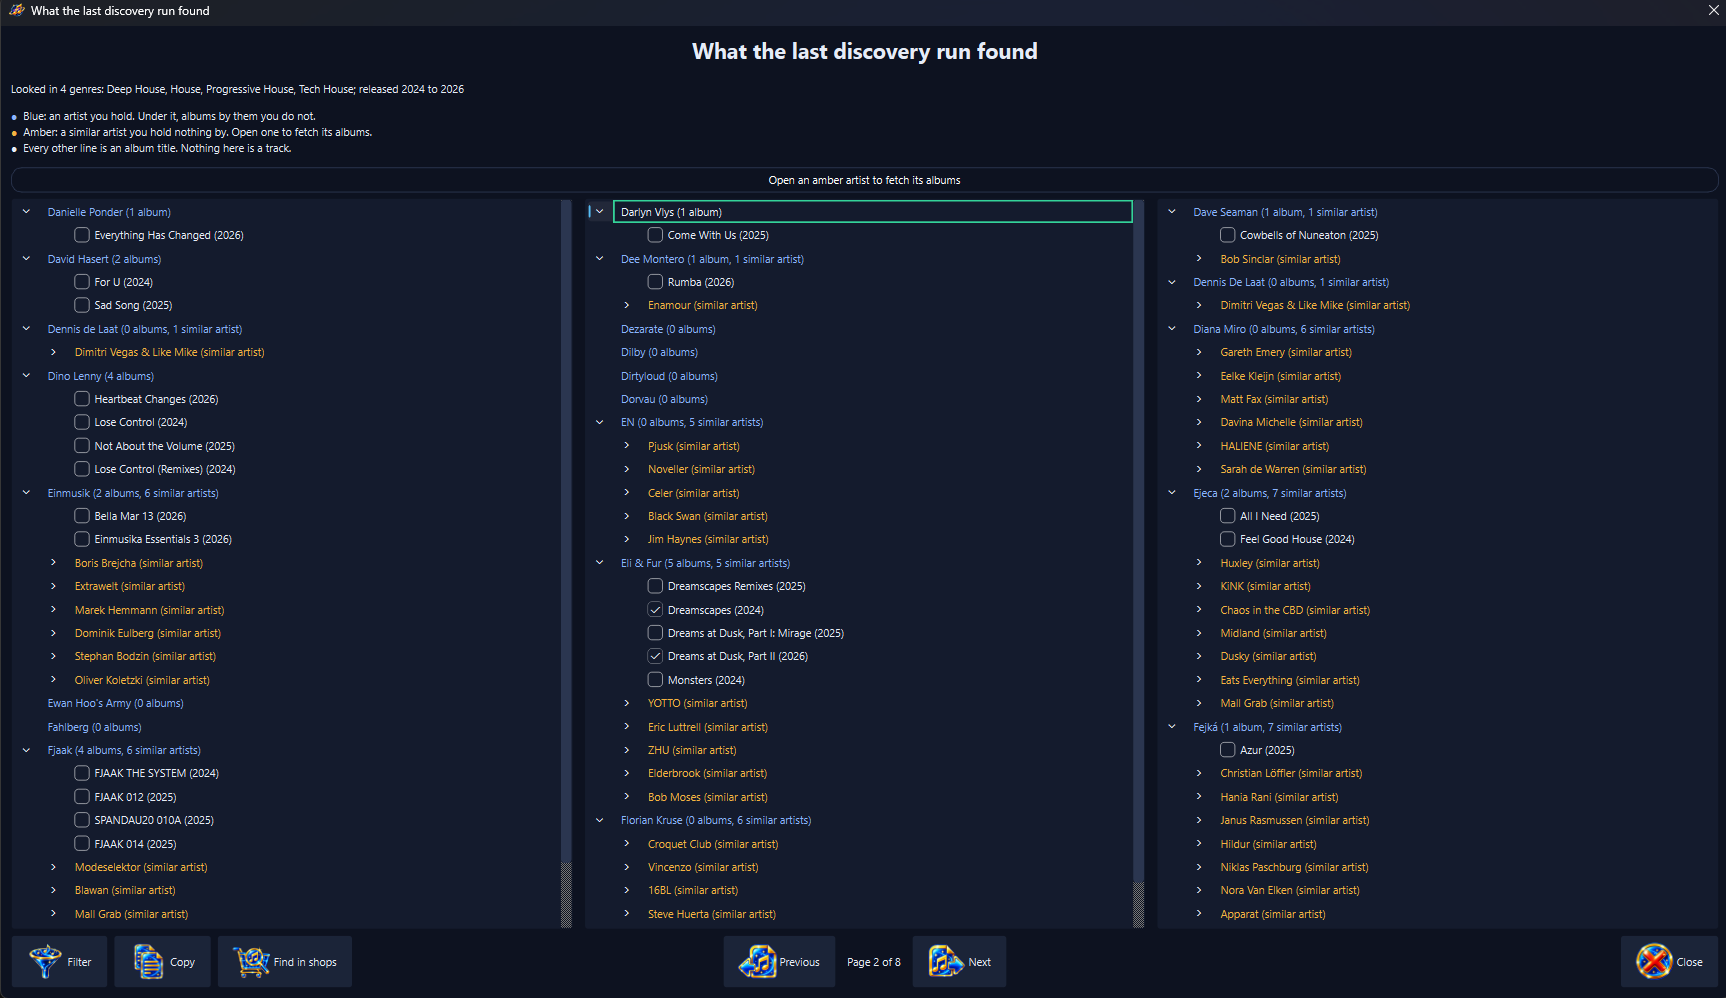
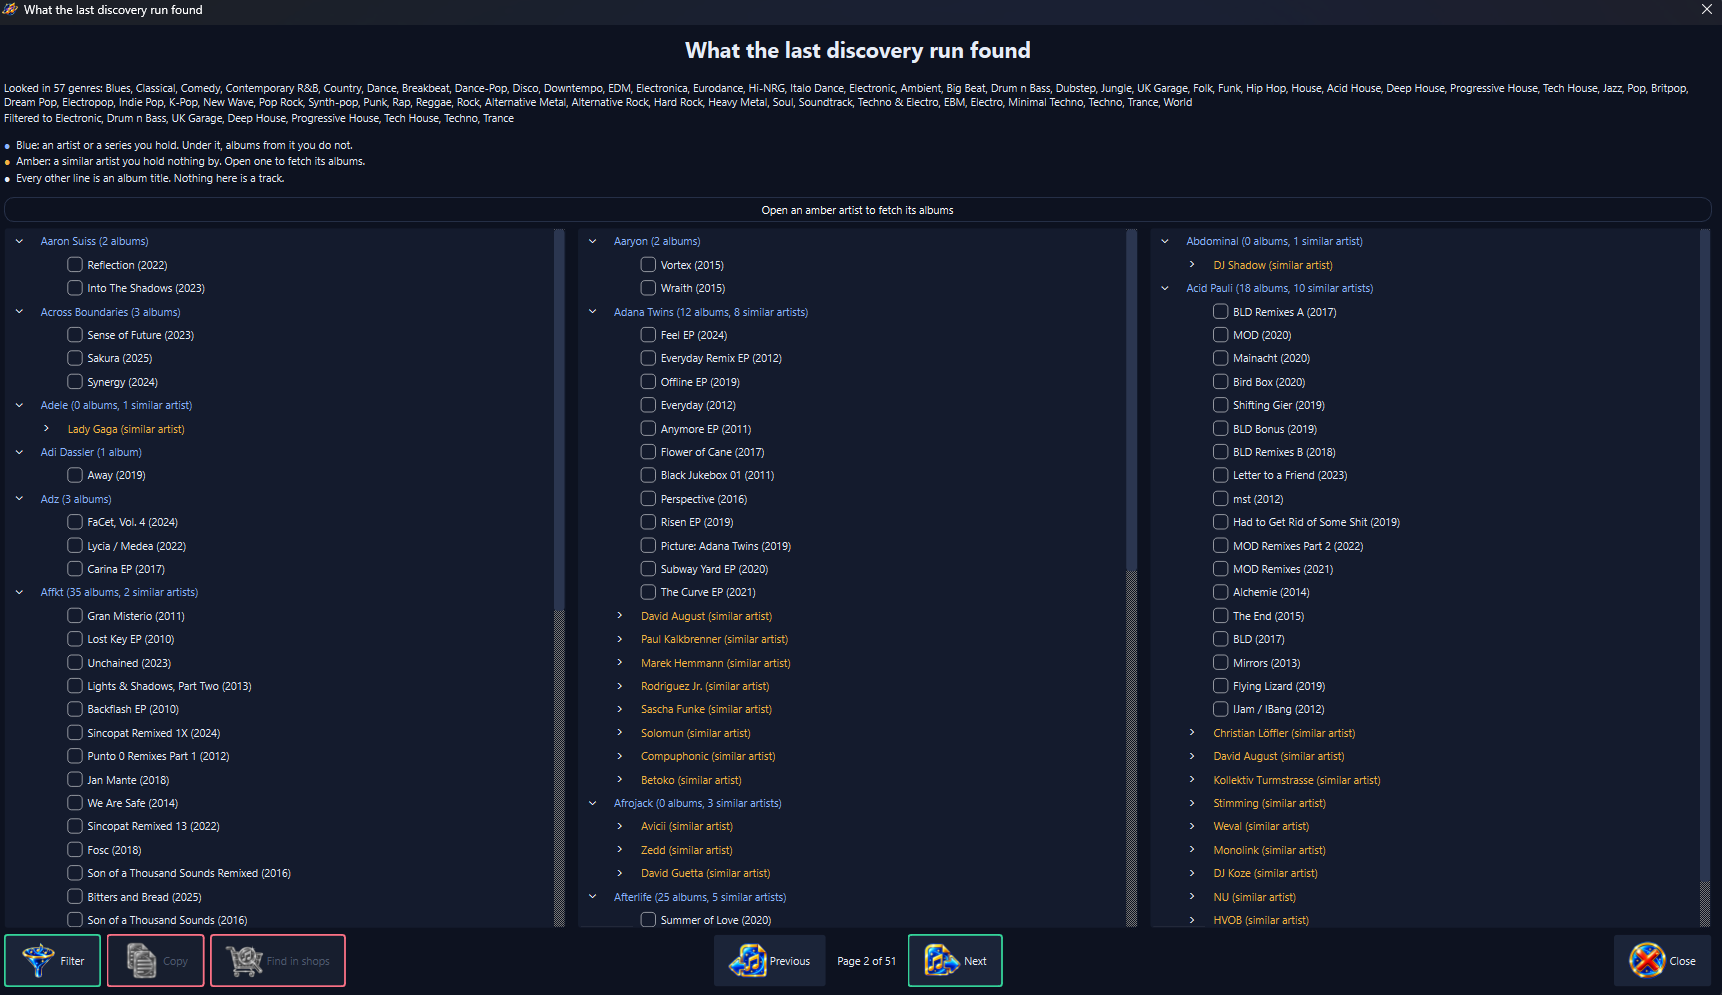
Mirror the site from Stellody@e28dd8b

diff --git a/public/features.html b/public/features.html
@@ -76,16 +76,19 @@
     else sounds like them.
   </p>
   <div class="shot" style="margin-top:2.5rem;">
-    <img src="screenshots/discovered.png" width="1726" height="998" alt="The What the last discovery run found window, opened across a wide screen. A line at the top says the search looked in 4 genres (Deep House, House, Progressive House and Tech House) released 2024 to 2026. Under it a key names the three kinds of row: an artist you hold, drawn in blue, with albums by them you do not underneath; a similar artist you hold nothing by, drawn in amber, which fetches its albums when opened; every other line, which is an album title. The key states outright that nothing in the list is a track. The answer is dealt into three columns of artists, Dino Lenny with 4 albums and Eli &amp; Fur with 5 albums and 5 similar artists among them. Every album has a tick box with the year it first came out beside its title: Dreamscapes (2024) and Dreams at Dusk, Part II (2026) are both ticked. Darlyn Vlys is the row the keyboard is on, ringed in green. One row runs under the columns: Filter, Copy and Find in shops at the left, then Previous and Next with the words Page 2 of 8 between them, then Close at the right.">
+    <img src="screenshots/discovered.png" width="1722" height="995" alt="The What the last discovery run found window, opened across a wide screen. A line at the top says the search looked in 57 genres and lists them; the next says the answer is filtered to Electronic, Drum n Bass, UK Garage, Deep House, Progressive House, Tech House, Techno and Trance, with nothing held back. Under it a key names the three kinds of row: an artist or a series you hold, drawn in blue, with albums from it you do not hold underneath; a similar artist you hold nothing by, drawn in amber, which fetches its albums when opened; every other line, which is an album title. A strip reads Open an amber artist to fetch its albums. The answer is dealt into three columns, among them Aaron Suiss with 2 albums, Adana Twins with 12 albums and 8 similar artists listed in amber beneath them; Acid Pauli has 18 albums and 10 similar artists. Every album has a tick box with the year it first came out beside its title. Nothing is ticked, so Copy and Find in shops are outlined in red and shut off. One row runs under the columns: Filter, Copy and Find in shops at the left, then Previous and Next with the words Page 2 of 51 between them, Next ringed in green, then Close at the right.">
   </div>
-  <p class="shot-caption">What the search found, turned a page at a time. Blue is an artist you hold; amber is one you do not. Every line says which it is in words. Each album carries the year it first came out.</p>
+  <p class="shot-caption">What the search found, turned a page at a time. Blue is an artist or a series you hold; amber is an artist you do not. Every line says which it is in words. Each album carries the year it first came out.</p>
 
   <div class="features-grid" style="margin-top:2.5rem;">
     <div class="feat">
       <h3>You choose what it looks at</h3>
       <p>The genres you tick decide which of your artists are named, so what goes out is a subset you
-      chose rather than an inventory of everything you own. What goes out is those artist names, the
-      identifiers the catalogue gives back for them and for the similar artists it suggests, the fixed
+      chose rather than an inventory of everything you own. What goes out is those artist names; up
+      to three album or track titles you hold under a name several artists share, to tell which one
+      you mean; while compilations are included, the titles of those compilations and the series
+      names read from them; the identifiers the catalogue gives back for all of these and for the
+      similar artists it suggests; the fixed
       settings each request states for itself plus a user agent naming Stellody, its version and the
       project's contact address. The language asked for is fixed at any rather than your computer's
       own: no collection, no counts, nothing about you or your machine.</p>
@@ -95,7 +98,14 @@
       <p>A compilation filed under Various Artists is one name that means nobody, so by default it adds
       nothing. Tick the box for compilations and the search asks about the artists on their tracks
       instead, still only in the genres you ticked; a line beneath the box says how many of those
-      artists have never been looked up and roughly how many minutes they add.</p>
+      artists and series have never been looked up and roughly how many minutes they add.</p>
+      <p>A ticked box also finds the other volumes of each series you hold. Hold Global Underground:
+      Adapt #2 and #6; the answer offers the four you are missing under a heading of their own,
+      marked as a series. The series comes from MusicBrainz, topped up by albums whose title differs
+      only by the volume number, which also covers a compilation in no series and volumes newer
+      than the series list. An album filed under a name
+      that only labels a series, as Global Underground does, is treated the same way. Nothing you
+      already hold is offered back, whoever it is filed under.</p>
       <p>A name holding several artists, such as a compilation credit or the name an album is filed
       under, is looked up whole first; each artist in it is looked up only if nobody answers to the
       whole.</p>
@@ -144,8 +154,9 @@
       <p>A search over a whole library can answer with thousands of albums. A Filter button under the
       answer offers the genres that search looked in; tick some and the pages are dealt again from what
       is left. An artist you hold stays where one of your own albums by them sits under a picked genre.</p>
-      <p>A similar artist stays where an earlier search recorded what they play, else is held back with a
-      line saying how many. Filtering never takes a tick away, while Copy and Find in shops act only on
+      <p>A similar artist stays where an earlier search recorded what they play. One MusicBrainz says
+      nothing about is judged by the artist you hold it was suggested for. It is held back only where
+      neither gives a genre, with a line saying how many. Filtering never takes a tick away, while Copy and Find in shops act only on
       the ticked albums you can see.</p>
     </div>
     <div class="feat">
@@ -200,7 +211,7 @@
   </div>
 
   <div class="shot" style="margin-top:2.5rem;">
-    <img src="screenshots/discover.png" width="627" height="672" alt="The Discover new music window: the same genre catalogue the filter uses, laid out in three columns of tick boxes, with the styles indented under the mains that carry them. Four Electronic styles are ticked: Deep House, House, Progressive House and Tech House. Beneath the genres Include compilations (Various Artists) is ticked, with a line saying every artist on compilations in these genres has been looked up already. Below that, Released from 2024 to 2026. A last line says to tick the genres then press Find; the window closes and the toolbar reports on the search. Select all sits at the bottom left; Close and Find sit at the bottom right.">
+    <img src="screenshots/discover.png" width="618" height="643" alt="The Discover new music window: the same genre catalogue the filter uses, in three columns of tick boxes. Every genre that has styles carries an arrow beside it that folds them away. Electronic, House and Techno &amp; Electro are open, with their styles indented beneath them: Dubstep, Jungle and UK Garage ticked under Electronic; Deep House, Progressive House and Tech House under House; Techno and Trance under Techno &amp; Electro. Dance, Pop and Rock are folded. Beneath the genres Include compilations (Various Artists) is ticked, with a line saying 4 series on compilations in these genres have not been looked up yet, under a minute more at the pace MusicBrainz allows. Below that, Released from 2020 to 2026, the second year ringed in green. A last line says to tick the genres then press Find; the window closes and the toolbar reports on the search. Select all sits at the bottom left; Close and Find sit at the bottom right.">
   </div>
   <p class="shot-caption">Tick what to look in; add years to be offered music from those alone. Find closes this window; the search then reports from the toolbar.</p>
 
@@ -379,10 +390,13 @@
   </p>
   <div class="features-grid">
     <div class="feat">
-      <h3>Eighteen genres, sixteen styles under them</h3>
-      <p>Thirty-four boxes in all, in alphabetical order. An album can carry several at once. The names
-      are Discogs' own, so they are ones you have seen before and ones a label written by another program
-      has a chance of matching.</p>
+      <h3>Twenty-one genres, thirty-six styles under them</h3>
+      <p>Fifty-seven boxes in all, in alphabetical order. An album can carry several at once. The names
+      follow Discogs' spellings where Discogs has them, so they are ones you have seen before and ones a label written by another
+      program has a chance of matching. Electronic is split into Dance, Electronic, House and Techno &amp; Electro,
+      with styles for the names MusicBrainz gives
+      the artists a search suggests. Each genre's styles fold away behind an arrow, so the list fits
+      a laptop screen; every dialog offering it remembers which you left open.</p>
     </div>
     <div class="feat">
       <h3>Ticking more shows more</h3>
@@ -391,8 +405,8 @@
     </div>
     <div class="feat">
       <h3>A style means that style</h3>
-      <p>Tick Trance and you get trance, not everything electronic. Tick Electronic and you get the lot,
-      trance included, because Stellody already knows which main each style belongs to.</p>
+      <p>Tick Deep House and you get deep house, not every kind of house. Tick House and you get the lot,
+      deep house included, because Stellody already knows which main each style belongs to.</p>
     </div>
     <div class="feat">
       <h3>Albums with no genre are reachable</h3>
@@ -699,7 +713,7 @@
     </div>
     <div class="footer-bottom">
       <p>A free, quiet music player for the collection you already own. No cloud, no account.
-      Version <!--VERSION-->1.10.1<!--/VERSION-->, model under GPL-3.0, user interface under LGPL-3.0.
+      Version <!--VERSION-->1.11.0<!--/VERSION-->, model under GPL-3.0, user interface under LGPL-3.0.
       A commercial licence for my own code is also available, separately from the open-source licences: see <a href="https://ernster.dev/commercial-licensing.html">commercial licensing</a>.
       &copy; Oliver Ernster</p>
     </div>

diff --git a/public/index.html b/public/index.html
@@ -154,7 +154,8 @@
       <p>MusicBrainz for what an artist released; ListenBrainz for which artists resemble another. Both
       answer without a key. What goes out is the artist names in the genres you ticked and the
       identifiers the catalogues give back (plus up to three of your album or track titles for a name
-      several artists share), never your files and nothing about you.</p>
+      several artists share; with compilations included, their titles too), never your files and
+      nothing about you.</p>
     </div>
     <div class="feat">
       <h3>From any years you like</h3>
@@ -179,7 +180,7 @@
   </div>
 
   <div class="shot" style="margin-top:2.5rem;">
-    <img src="screenshots/discovered.png" width="1726" height="998" alt="The What the last discovery run found window, opened across a wide screen. A line at the top says the search looked in 4 genres (Deep House, House, Progressive House and Tech House) released 2024 to 2026. Under it a key names the three kinds of row: an artist you hold, drawn in blue, with albums by them you do not underneath; a similar artist you hold nothing by, drawn in amber, which fetches its albums when opened; every other line, which is an album title. The key states outright that nothing in the list is a track. The answer is dealt into three columns of artists, Dino Lenny with 4 albums and Eli &amp; Fur with 5 albums and 5 similar artists among them. Every album has a tick box with the year it first came out beside its title: Dreamscapes (2024) and Dreams at Dusk, Part II (2026) are both ticked. Darlyn Vlys is the row the keyboard is on, ringed in green. One row runs under the columns: Filter, Copy and Find in shops at the left, then Previous and Next with the words Page 2 of 8 between them, then Close at the right.">
+    <img src="screenshots/discovered.png" width="1722" height="995" alt="The What the last discovery run found window, opened across a wide screen. A line at the top says the search looked in 57 genres and lists them; the next says the answer is filtered to Electronic, Drum n Bass, UK Garage, Deep House, Progressive House, Tech House, Techno and Trance, with nothing held back. Under it a key names the three kinds of row: an artist or a series you hold, drawn in blue, with albums from it you do not hold underneath; a similar artist you hold nothing by, drawn in amber, which fetches its albums when opened; every other line, which is an album title. A strip reads Open an amber artist to fetch its albums. The answer is dealt into three columns, among them Aaron Suiss with 2 albums, Adana Twins with 12 albums and 8 similar artists listed in amber beneath them; Acid Pauli has 18 albums and 10 similar artists. Every album has a tick box with the year it first came out beside its title. Nothing is ticked, so Copy and Find in shops are outlined in red and shut off. One row runs under the columns: Filter, Copy and Find in shops at the left, then Previous and Next with the words Page 2 of 51 between them, Next ringed in green, then Close at the right.">
   </div>
   <p class="shot-caption">What one search found, turned a page at a time. Blue is an artist you hold; amber is one you do not. Every line says which it is in words. Each album carries the year it first came out.</p>
 
@@ -375,7 +376,7 @@
     </div>
     <div class="footer-bottom">
       <p>A free, quiet music player for the collection you already own. No cloud, no account.
-      Version <!--VERSION-->1.10.1<!--/VERSION-->, model under GPL-3.0, user interface under LGPL-3.0.
+      Version <!--VERSION-->1.11.0<!--/VERSION-->, model under GPL-3.0, user interface under LGPL-3.0.
       A commercial licence for my own code is also available, separately from the open-source licences: see <a href="https://ernster.dev/commercial-licensing.html">commercial licensing</a>.
       &copy; Oliver Ernster</p>
     </div>

diff --git a/public/why.html b/public/why.html
@@ -171,7 +171,9 @@
       request states for itself (the answer's format, how many results to return, where a following page starts, which release types
       to list, which details to include and which similarity algorithm to use) plus a user agent naming Stellody, its version and the project's contact address.
       Where the catalogue holds several artists under one of your names, up to three titles of albums
-      or tracks you hold under that name go with it, so it can say which of them is yours. The language
+      or tracks you hold under that name go with it, so it can say which of them is yours. While
+      compilations are included, the titles of those compilations go too, with the series name read
+      from each, so it can find the volumes of that series you do not hold. The language
       asked for is fixed at any rather than your computer's own: not your collection as a whole, not a
       count of it, not a word about you or your machine. Tick nothing and nothing leaves.</p>
     </div>
@@ -306,7 +308,7 @@
     </div>
     <div class="footer-bottom">
       <p>A free, quiet music player for the collection you already own. No cloud, no account.
-      Version <!--VERSION-->1.10.1<!--/VERSION-->, model under GPL-3.0, user interface under LGPL-3.0.
+      Version <!--VERSION-->1.11.0<!--/VERSION-->, model under GPL-3.0, user interface under LGPL-3.0.
       A commercial licence for my own code is also available, separately from the open-source licences: see <a href="https://ernster.dev/commercial-licensing.html">commercial licensing</a>.
       &copy; Oliver Ernster</p>
     </div>

diff --git a/public/download.html b/public/download.html
@@ -165,7 +165,7 @@
     </div>
     <div class="footer-bottom">
       <p>A free, quiet music player for the collection you already own. No cloud, no account.
-      Version <!--VERSION-->1.10.1<!--/VERSION-->, model under GPL-3.0, user interface under LGPL-3.0.
+      Version <!--VERSION-->1.11.0<!--/VERSION-->, model under GPL-3.0, user interface under LGPL-3.0.
       A commercial licence for my own code is also available, separately from the open-source licences: see <a href="https://ernster.dev/commercial-licensing.html">commercial licensing</a>.
       &copy; Oliver Ernster</p>
     </div>
